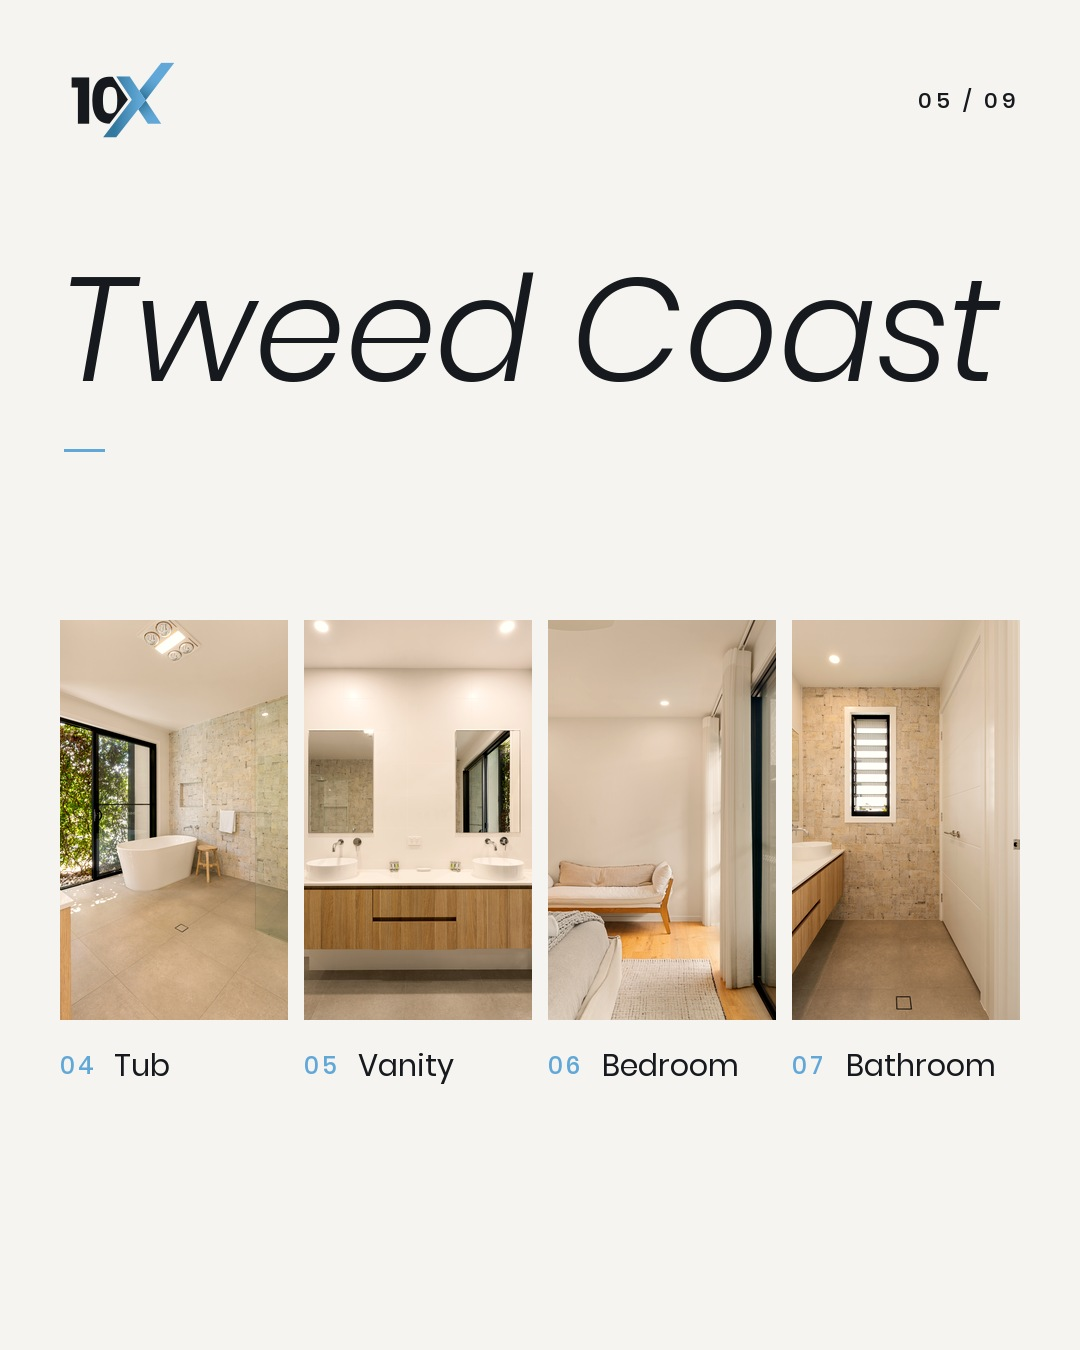
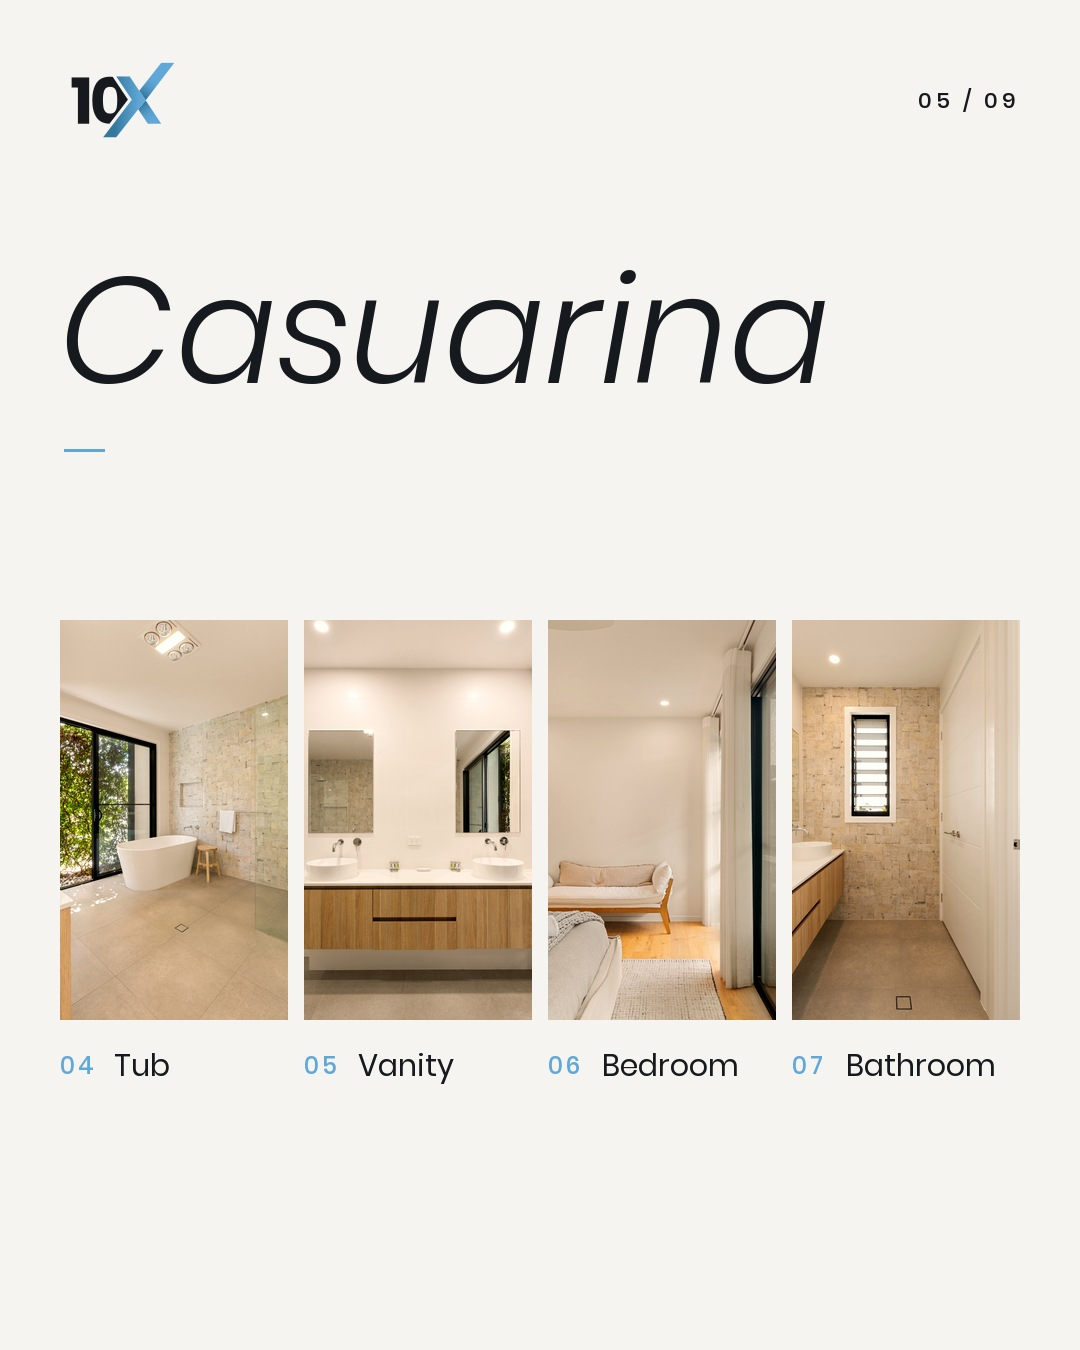
10xrealestate_: v5.2 carousels for 5 listings (Pottsville merged, Somerset added), posting planner, wiki page + harvest

Changed region(s): [[0.0611, 0.1867, 0.9167, 0.3111]]

diff --git a/projects/10xrealestate-ig/planner/build_planner.py b/projects/10xrealestate-ig/planner/build_planner.py
@@ -1,0 +1,45 @@
+"""Visual posting planner for @10xrealestate_: profile-grid preview + SCHEDULE table.
+Edit POSTS (in posting order), then: python3 planner/build_planner.py"""
+import os
+from datetime import date, timedelta
+from PIL import Image, ImageDraw, ImageFont, ImageOps
+
+HERE = os.path.dirname(os.path.dirname(os.path.abspath(__file__)))
+F = "/Users/10xhunter/Library/Fonts/Poppins-"
+START, EVERY = date(2026, 10, 28), 3
+POSTS = [  # listing, format, client, thumbnail (reel thumbs are stand-ins; real covers set in the app)
+    ("13 Mayra Ct, Mermaid Waters", "Reel", "Kollosche", "covers/mayra-ct-cover.jpg"),
+    ("59 Cylinders Dr, Kingscliff", "Carousel", "Salt PM", "carousels/59-cylinders-dr/01.jpg"),
+    ("47 Somerset Dr, Mudgeeraba", "Reel", "Whitefox", "planner/somerset-reel.jpg"),
+    ("Solis, 673 Casuarina Way", "Carousel", "Salt PM", "carousels/solis-673-casuarina-way/01.jpg"),
+    ("10 Australis Ct, Mermaid Waters", "Reel", "Kollosche", "planner/australis-reel.jpg"),
+    ("Elanora Ave townhouses, Pottsville", "Carousel", "Salt PM", "carousels/elanora-ave-townhouses/01.jpg"),
+    ("Grandview Hotel", "Reel", "Grandview", "planner/grandview-reel.jpg"),
+    ("47 Somerset Dr, Mudgeeraba", "Carousel", "Whitefox", "carousels/47-somerset-dr/01.jpg"),
+    ("59 Cylinders Dr, Kingscliff", "Reel", "Salt PM", "planner/cylinders-reel.jpg"),
+    ("10 Australis Ct, Mermaid Waters", "Carousel", "Kollosche", "carousels/10-australis-ct/01.jpg"),
+    ("Solis, 673 Casuarina Way", "Reel", "Salt PM", "planner/solis-reel.jpg"),
+    ("Elanora Ave townhouses, Pottsville", "Reel", "Salt PM", "planner/elanora-reel.jpg"),
+]
+BLUE, INK, PAPER = (0x61, 0xA8, 0xD8), (22, 26, 30), (0xF6, 0xF4, 0xF0)
+f = lambda w, s: ImageFont.truetype(f"{F}{w}.ttf", s)
+when = lambda i: START + timedelta(days=EVERY * i)
+
+TW, TH, CAP, COLS = 360, 480, 78, 3
+rows = (len(POSTS) + COLS - 1) // COLS
+g = Image.new("RGB", (COLS * TW + (COLS - 1) * 6 + 80, 150 + rows * (TH + CAP) + 30), PAPER)
+d = ImageDraw.Draw(g)
+d.text((40, 50), "@10xrealestate_  posting planner", font=f("SemiBold", 40), fill=INK)
+d.text((40, 100), "Every 3 days, 7pm AEST. Newest first, as the grid will look after the last post.", font=f("Regular", 22), fill=(90, 90, 90))
+for k, (i, (listing, fmt, client, src)) in enumerate(reversed(list(enumerate(POSTS)))):
+    x, y = 40 + (k % COLS) * (TW + 6), 150 + (k // COLS) * (TH + CAP)
+    g.paste(ImageOps.fit(Image.open(f"{HERE}/{src}").convert("RGB"), (TW, TH)), (x, y))
+    d.rectangle((x + 12, y + 12, x + 12 + (70 if fmt == "Reel" else 130), y + 44), fill=BLUE)
+    d.text((x + 20, y + 28), fmt.upper(), anchor="lm", font=f("SemiBold", 18), fill="white")
+    d.text((x, y + TH + 10), f"{i + 1:02d}  {when(i):%a %-d %b}", font=f("SemiBold", 22), fill=BLUE)
+    d.text((x, y + TH + 40), listing, font=f("Regular", 19), fill=INK)
+g.save(f"{HERE}/planner/PLANNER.jpg", quality=90)
+
+rows = ["| # | Date (7pm AEST) | Listing | Format | Client |", "|---|---|---|---|---|"]
+rows += [f"| {i + 1} | {when(i):%a %-d %b} | {l} | {fm} | {c} |" for i, (l, fm, c, _) in enumerate(POSTS)]
+print("\n".join(rows))

diff --git a/projects/10xrealestate-ig/build_carousels.py b/projects/10xrealestate-ig/build_carousels.py
@@ -168,7 +168,8 @@ def cover(c, path, listing):
         im = load(path, (W, H))
     c.paste(im, (0, 0))
     mask, roof = sky_mask(im)
-    if roof > 300:  # deepen the sky so white type holds against it
+    behind = roof > 300 and listing.get("cover_mode") != "front"  # front when the skyline is ragged (trees)
+    if behind:  # deepen the sky so white type holds against it
         g = Image.linear_gradient("L").resize((W, H)).point(lambda v: int(150 * max(0, 1 - v / 255 * H / (roof + 120))))
         deep = ImageEnhance.Color(ImageEnhance.Brightness(im).enhance(0.78)).enhance(1.15)
         c.paste(Image.composite(deep, im, Image.fromarray(np.minimum(np.asarray(g), np.asarray(mask)))), (0, 0))
@@ -176,8 +177,12 @@ def cover(c, path, listing):
     big = fit(d, listing["street"], "SemiBold", 300, W - 2 * 80)  # survives the 3:4 grid crop
     x0, y0, x1, y1 = d.textbbox((0, 0), listing["street"], font=big, anchor="ls")
     th = y1 - y0
-    behind = roof > 300
-    base = int(roof + th * 0.16) if behind else H - 330
+    if behind:
+        base = int(roof + th * 0.16)
+    elif roof > 300:  # open sky but a ragged edge: set the name clear of it
+        base = max(int(roof - 40), 240 + th)  # keep the kicker clear of the logo
+    else:
+        base = H - 330
     base = max(base, 170 + th)
     layer = Image.new("RGBA", (W, H), (0, 0, 0, 0))
     ImageDraw.Draw(layer).text(((W - (x1 - x0)) // 2 - x0, base), listing["street"], font=big, fill="white", anchor="ls")
@@ -277,15 +282,24 @@ def build(key, listing, photos):
     strip.convert("RGB").resize((W * SLIDES // 4, H // 4)).save(f"{out}/_strip.jpg", quality=85)
 
 
-def photos_for(folder):
-    fs = []
-    for root, _, files in os.walk(f"{SRC}/{folder}"):
-        fs += [os.path.join(root, f) for f in files if f.lower().endswith((".jpg", ".jpeg", ".png"))]
-    return sorted(fs)
+def photos_for(listing):
+    """Sorted photo paths. `folders` concatenates shoots in order (indices run on);
+    `dir` + `match` reads straight from another folder, e.g. the website photo dump."""
+    if listing.get("dir"):
+        d = listing["dir"]
+        return sorted(os.path.join(d, f) for f in os.listdir(d)
+                      if listing.get("match", "") in f and f.lower().endswith((".jpg", ".jpeg", ".png")))
+    out = []
+    for folder in listing.get("folders", [listing.get("folder")]):
+        fs = []
+        for root, _, files in os.walk(f"{SRC}/{folder}"):
+            fs += [os.path.join(root, f) for f in files if f.lower().endswith((".jpg", ".jpeg", ".png"))]
+        out += sorted(fs)
+    return out
 
 
 if __name__ == "__main__":
     cfg = json.load(open(f"{HERE}/carousels.json"))
     for key, listing in cfg.items():
-        build(key, listing, photos_for(listing["folder"]))
+        build(key, listing, photos_for(listing))
         print("built", key)

diff --git a/projects/10xrealestate-ig/SCHEDULE.md b/projects/10xrealestate-ig/SCHEDULE.md
@@ -1,23 +1,32 @@
-# @10xrealestate_ posting schedule (draft, 2026-10-26)
+# @10xrealestate_ posting schedule (v2, 2026-10-26)
 
-One post every 3 days at 7pm AEST. Alternates Kollosche and Salt PM, and alternates reel and carousel.
-Carousels are 4:5 exports in `carousels/`. Videos come from `~/Documents/Posting for 10xRealestate/To Post/`.
-Caption rule: mention the client and agents, no collab invites, no "picture yourself" hooks.
+One post every 3 days at 7pm AEST, alternating reel and carousel and spreading clients out. Visual grid preview: [planner/PLANNER.jpg](planner/PLANNER.jpg). To regenerate it, edit POSTS in `planner/build_planner.py` and run it.
 
-| # | Date | Listing | Format | Client |
-|---|------|---------|--------|--------|
-| 1 | Tue 28 Oct | 13 Mayra Ct, Mermaid Waters | Reel (main video) | Kollosche |
-| 2 | Fri 31 Oct | 59 Cylinders Dr | Carousel | Salt PM |
-| 3 | Mon 3 Nov | 10 Australis Ct | Reel | Kollosche |
-| 4 | Thu 6 Nov | 673 Casuarina Way (Solis) | Carousel | Salt PM |
-| 5 | Sun 9 Nov | 59 Cylinders Dr | Reel | Salt PM |
-| 6 | Wed 12 Nov | 2/7A Elanora Ave | Carousel | Salt PM |
-| 7 | Sat 15 Nov | 673 Casuarina Way (Solis) | Reel | Salt PM |
-| 8 | Tue 18 Nov | 10 Australis Ct | Carousel | Kollosche |
-| 9 | Fri 21 Nov | 2/7A Elanora Ave | Reel | Salt PM |
+| # | Date (7pm AEST) | Listing | Format | Client |
+|---|---|---|---|---|
+| 1 | Wed 28 Oct | 13 Mayra Ct, Mermaid Waters | Reel | Kollosche |
+| 2 | Sat 31 Oct | 59 Cylinders Dr, Kingscliff | Carousel | Salt PM |
+| 3 | Tue 3 Nov | 47 Somerset Dr, Mudgeeraba | Reel | Whitefox |
+| 4 | Fri 6 Nov | Solis, 673 Casuarina Way | Carousel | Salt PM |
+| 5 | Mon 9 Nov | 10 Australis Ct, Mermaid Waters | Reel | Kollosche |
+| 6 | Thu 12 Nov | Elanora Ave townhouses, Pottsville | Carousel | Salt PM |
+| 7 | Sun 15 Nov | Grandview Hotel | Reel | Grandview |
+| 8 | Wed 18 Nov | 47 Somerset Dr, Mudgeeraba | Carousel | Whitefox |
+| 9 | Sat 21 Nov | 59 Cylinders Dr, Kingscliff | Reel | Salt PM |
+| 10 | Tue 24 Nov | 10 Australis Ct, Mermaid Waters | Carousel | Kollosche |
+| 11 | Fri 27 Nov | Solis, 673 Casuarina Way | Reel | Salt PM |
+| 12 | Mon 30 Nov | Elanora Ave townhouses, Pottsville | Reel | Salt PM |
 
-Skipped: 2/9B Elanora Ave. It's the same complex and finishes as 2/7A, so it would read as a repeat. Hold it for later.
-The videos themselves haven't been QC'd. Picks were made from the photos.
+## Sources
+- Carousels: `carousels/<key>/01-09.jpg`, built by `build_carousels.py` from `carousels.json`.
+- Reels: `~/Documents/Posting for 10xRealestate/To Post/<listing>/`. The two exceptions are 47 Somerset (`~/Downloads/47 Somerset Drive - Whitefox.mp4`) and Grandview (`~/Documents/GRANDVIEW HOTEL.mp4`).
+- Reel thumbnails in `planner/` are stand-ins taken from 35% of the way through each video. Set the real covers in the IG app.
 
-## Carousel design (v4, 2026-10-26)
-Built by `build_carousels.py` from `carousels.json`. Each deck is composed on one long 9-slide canvas and then sliced, so photos run across the swipe seams: slide 1 is the cover, slides 2 and 3 share a panorama, slides 4 and 5 have tall bleeds with a frame cut by the seam, slides 6 and 7 have a frame straddling the seam with an inset detail, slide 8 is full bleed, and slide 9 is a top bleed with an inset. The background is warm paper #f6f4f0 with the original blue #61a8d8 for accents and the X. There's no end card and no navy. Each listing has 10 photos, set in carousels.json, all ground level with no drones.
+## Notes
+- 2/7A and 2/9B Elanora are identical townhouses, so they're merged into one carousel and one reel.
+- 13 Mayra Ct has no photos, so it's reel only.
+- 47 Somerset was already posted on @10xvisuals_ in July. It's fine on this page.
+- Grandview Hotel: confirm whether it's real estate or construction before it posts here.
+- 120 Kennedys Lane (Salisbury), Shape and Broncos are construction jobs and belong on the construction page, not here.
+- Caption rules: mention the client and agents, no collab invites, no "picture yourself" hooks, no dot lists.
+- The videos haven't been QC'd.

diff --git a/wiki/projects/10xrealestate-ig.md b/wiki/projects/10xrealestate-ig.md
@@ -1,0 +1,48 @@
+---
+type: project
+tags: [social, instagram, 10xrealestate, carousels]
+status: active
+updated: 2026-10-26
+---
+
+# @10xrealestate_ page polish + content queue
+
+The work turned the @10xrealestate_ Instagram page into a premium real-estate media portfolio for 10x. Deliverables are in [projects/10xrealestate-ig/](../../projects/10xrealestate-ig/SCHEDULE.md).
+
+## What shipped (2026-10-20 to 26)
+- **Bio:** "Property film and photography / By @10xvisuals_". No dot lists and no "picture yourself" copy ([[ig-caption-voice]]).
+- **Profile pic and highlights** match @10xvisuals_. The pic is a white circle with a black "10" and the original-blue X. Highlights are dimmed listing photos carrying the white and blue 10X mark. App-only steps are listed in `PHONE-TODO.md`.
+- **Captions** for the Salt PM reel (no CTA, since the video sells), Boardwalk Tavern (10xConstruction) and 13 Mayra Ct (Kollosche). There are no collab invites on this page ([[kollosche]] won't accept them).
+- **Listing carousels, v5.2.** Five decks are built by `build_carousels.py`: 59 Cylinders Dr (Kingscliff), Solis 673 Casuarina Way, the Elanora Ave townhouses (Pottsville; 2/7A and 2/9B merged because they're identical), 10 Australis Ct (Mermaid Waters) and 47 Somerset Dr (Mudgeeraba, Whitefox).
+- **Posting planner:** 12 posts, one every 3 days at 7pm from 28 Oct, alternating reel and carousel. It comes with a grid preview, built by `planner/build_planner.py`.
+
+## Design system
+The deck is a seamless 9-slide editorial layout:
+1. Cover with the street name layered behind the roofline.
+2. Banded photo cuts across slides 2 and 3.
+3. Tilted prints cut by the seam.
+4. A suburb title and a film strip of details.
+5. A frame split on the swipe seam.
+6. A full bleed.
+7. A closing hero.
+
+It uses warm paper and the original 10x blue #61a8d8. Full rules are in auto-memory `template-10xrealestate-carousel.md`.
+
+## What it taught us
+- **Hunter's standing rules:**
+  - No navy and no end cards.
+  - Close on a hero.
+  - Real suburbs, never regions.
+  - Drones only when punched-in, never wide views.
+  - At most 2 bedrooms per deck.
+  - Merge identical shoots.
+  - Construction jobs belong on the construction page.
+- **Sky-masked headlines look great on a clean roofline**, but they tear on dusk sky behind a treeline. Those covers use front-set type in the open sky.
+- **Audit at the 3:4 profile-grid crop.** Full-width headlines lose their edge letters there.
+- **References were what moved the design.** v4 read as a template. v5 came after studying five carousel references Hunter sent: layered type, cut photos, tilted frames and film strips.
+
+## Open
+- Grandview Hotel: confirm it belongs on the real-estate page or the construction page.
+- 13 Mayra Ct has no photos, so it posts as a reel only.
+- Reel covers still need setting in the app, and the videos haven't been QC'd.
+- Division colour idea: the construction page X goes orange (AI is purple). Not actioned.

diff --git a/wiki/log.md b/wiki/log.md
@@ -1473,3 +1473,6 @@ One sun, with the HDRI rotated and the lamp matched by the kit. A sphere probe c
 
 ## [2026-10-26] lint | Coastal stage C closed
 All guides and ID maps were re-rendered for C2, C3 and C4. The pool fence is hidden in ID maps by kit design (like balustrades), so prompts must name it. Next is stage D (AI), which needs a quote first.
+
+## [2026-10-26] harvest | @10xrealestate_ carousels v5.2 + posting planner
+Built 5 listing carousels: Cylinders, Solis, Pottsville townhouses (merged), Australis, and Somerset (new, Whitefox). Fixed the real suburbs: Mermaid Waters, Pottsville, Mudgeeraba. Planned 12 posts from 28 Oct. Hunter approved the design system, which is saved to auto-memory `template-10xrealestate-carousel.md` and the new [[10xrealestate-ig]] page. New standing rules: punched-in drones OK, no view drones, construction jobs stay off this page, merge identical shoots.

diff --git a/wiki/index.md b/wiki/index.md
@@ -37,6 +37,7 @@ Catalog of every wiki page. Read this first when answering a query; update on ev
 
 ## Projects
 - [[cva-woomala-render-enhance]] — 11 Woomala St renders made photoreal (NBP from source, layout locked); 3,210cr; recipe + failure log
+- [[10xrealestate-ig]] — @10xrealestate_ page polish: bio, logo/highlights, 5 seamless listing carousels (v5.2) + 12-post planner from 28 Oct
 - [[solis-pool-cinemagraph]] — Salt PM listing photo → 10s 9:16 cinemagraph: Seedance 2.5 with camera lock moves only water + spout (160 hf); clouds added free in post by anchored sky-zoom composite
 - [[woomala-st-9x16-reframe]] — 14 Woomala St renders → 9:16 via pad-canvas + Nano Banana Pro + 1:1 paste-back (88 cr); method for any render reframe
 - [[lead-gen-engine]] — ads + landing pages for MVX, CVA and 10x itself; per-niche strategy, 3 pages built 28 Jul
